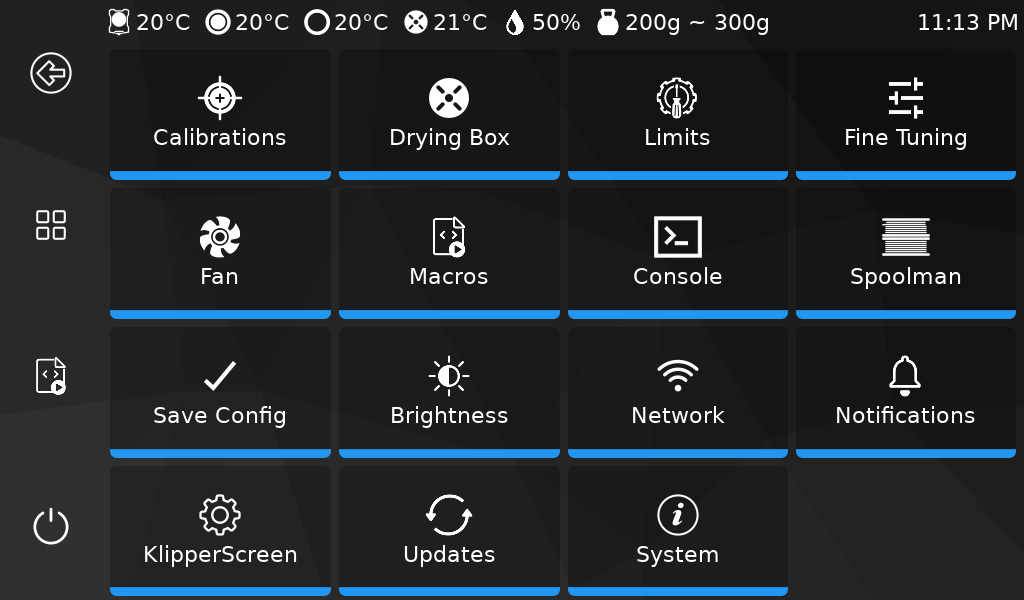
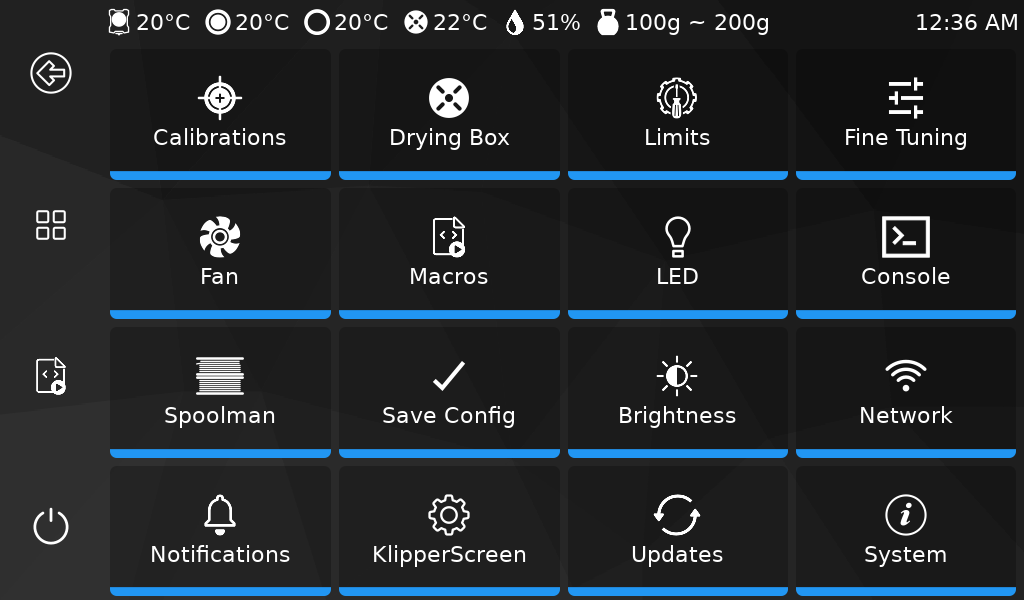
Update

diff --git a/docs/screenshots.md b/docs/screenshots.md
@@ -83,6 +83,11 @@ hide:
 	<img width="600" src="../assets/images/screenshot_17.png">
 
 
+- **LED Panel**
+
+	<img width="600" src="../assets/images/screenshot_21.png">
+
+
 - **Spoolman Panel**
 
 	<img width="600" src="../assets/images/screenshot_18.png">
